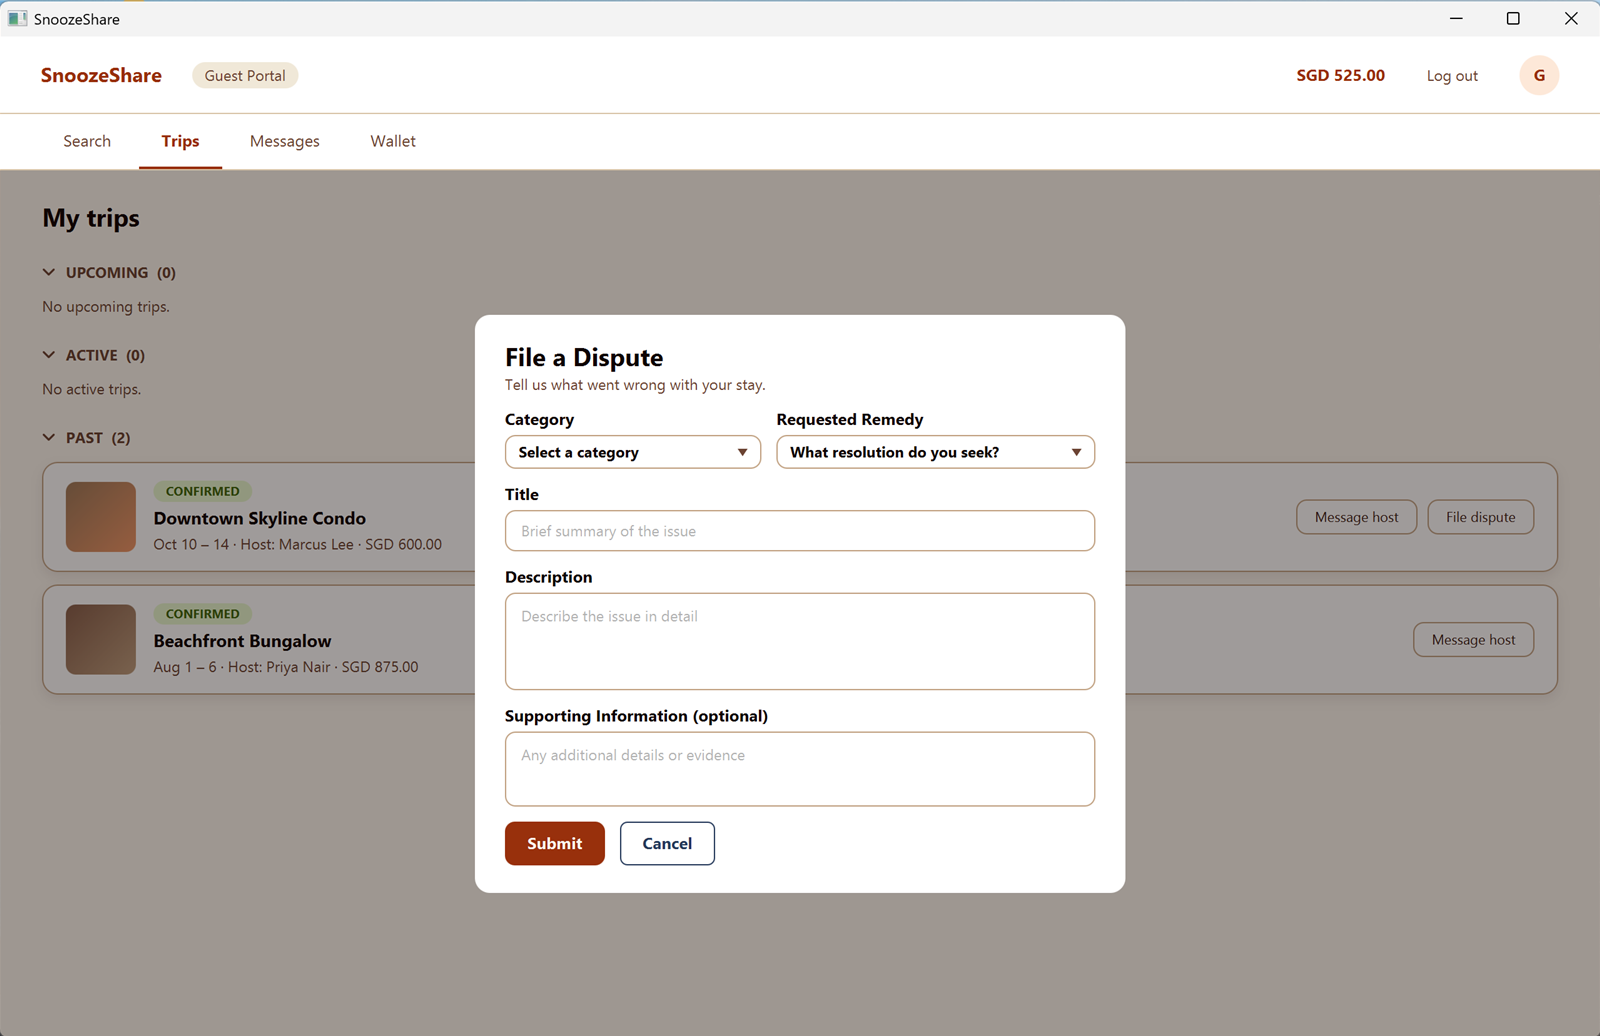
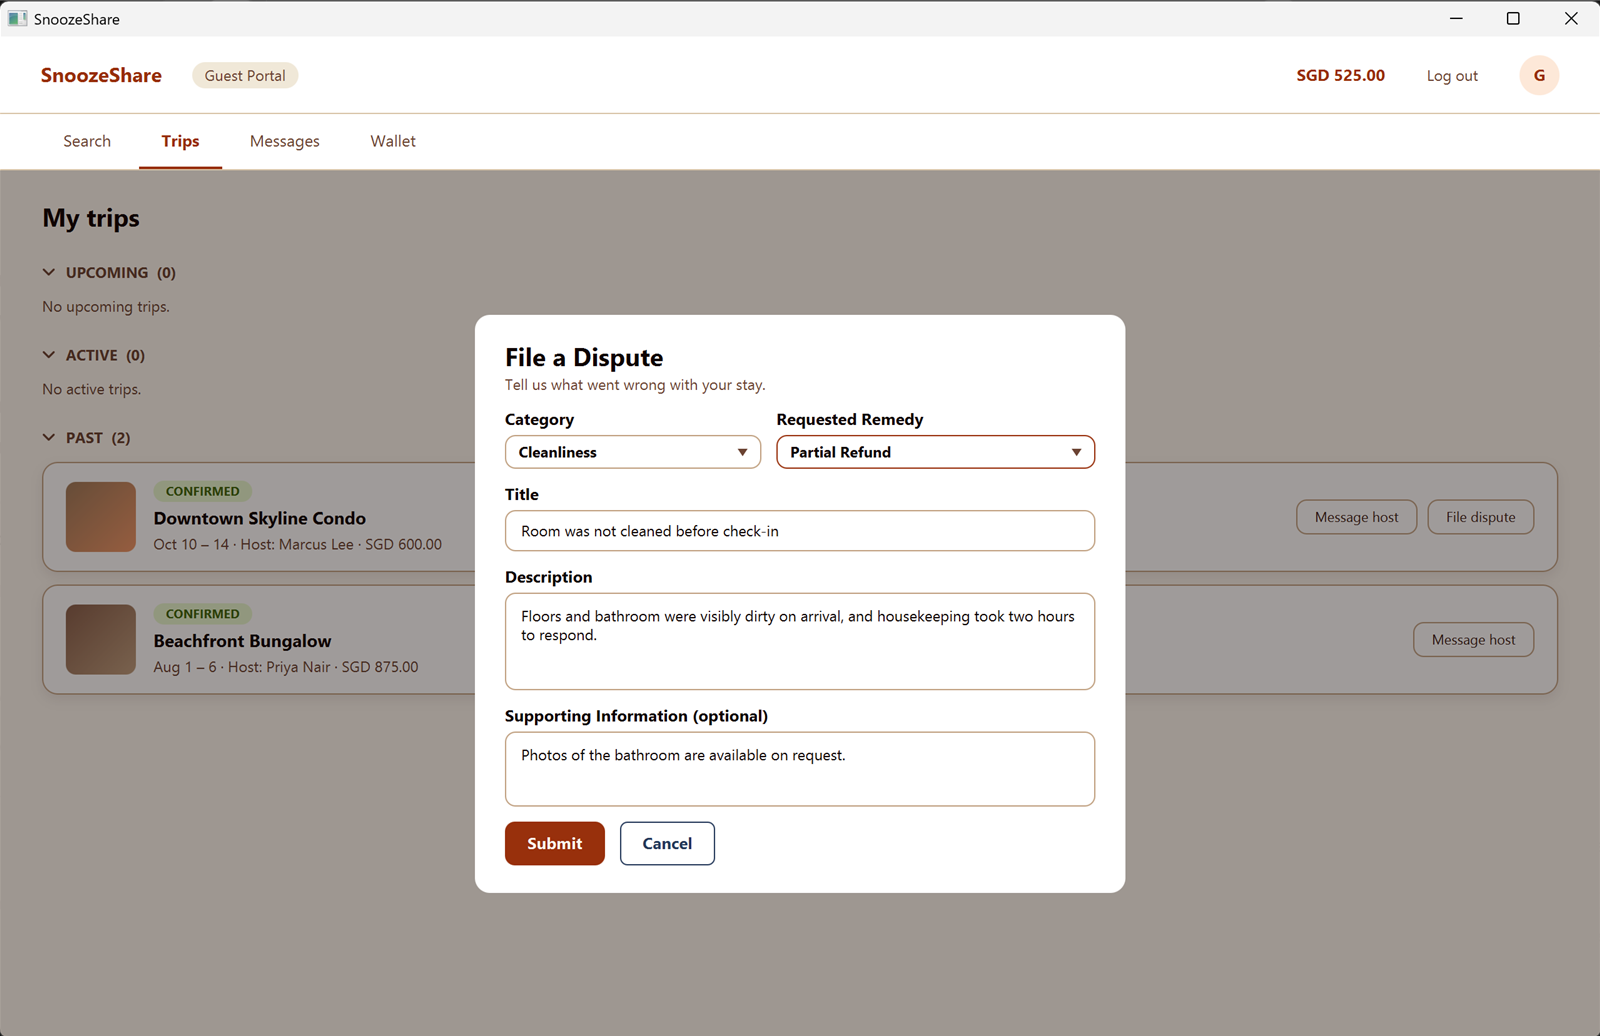
docs: retake the file-a-dispute screenshot filled in; describe the compact modal in both guides

diff --git a/docs/project-state/done-ledger.md b/docs/project-state/done-ledger.md
@@ -5,7 +5,7 @@ why, with a commit, plan or artifact as the reference. Not a copy of `git log`.
 
 | Date | What changed | Workstream | Ref |
 |---|---|---|---|
-| 2026-10-19 | MP3-0 UX fixes (branch `mp2-ux-date-fixes`), from operator feedback: **dates** no date picker accepts a past date any more: `StayDatePolicy.requireValidSearchRange` rejects a past check-in or check-out (the search filter, B5 follow-up), new `requireNotInPast` backs `AvailabilityService.createHostBlock` (host calendar, B4 follow-up; `AvailabilityServiceImpl` takes a `Clock`), and `GuestVisuals.blockPastDates` now also reports a past date that is *typed* into a picker with a message and leaves it in the field, so the service rejects the search, booking or block instead of running it with the date silently dropped (search, listing booking, host calendar). The Audit Log pickers are deliberately excluded, since they filter history. **Refund modal** now reads "100% (pending booking, or more than 48h before check-in)" and the policy note says a pending booking is refunded in full at any time. **File-a-dispute modal** no longer stretches to the window height: it sizes to its content, puts Category and Requested Remedy side by side, and lists the category "Other" last. `ListingServiceTest.searchWithDatesShowsAvailableBeforeUnavailable` used fixed October 2026 dates that are now past; it uses relative dates. User Guide and two screenshots (`guest4`, `guest-cancel-dialog`) updated. Verified in the running app (typed past date cleared, dialog layout, wording); the Host calendar typed-date path shares the helper and is covered by unit tests only | MP3-0 | commits on `mp2-ux-date-fixes` |
+| 2026-10-19 | MP3-0 UX fixes (branch `mp2-ux-date-fixes`), from operator feedback: **dates** no date picker accepts a past date any more: `StayDatePolicy.requireValidSearchRange` rejects a past check-in or check-out (the search filter, B5 follow-up), new `requireNotInPast` backs `AvailabilityService.createHostBlock` (host calendar, B4 follow-up; `AvailabilityServiceImpl` takes a `Clock`), and `GuestVisuals.blockPastDates` now also reports a past date that is *typed* into a picker with a message and leaves it in the field, so the service rejects the search, booking or block instead of running it with the date silently dropped (search, listing booking, host calendar). The Audit Log pickers are deliberately excluded, since they filter history. **Refund modal** now reads "100% (pending booking, or more than 48h before check-in)" and the policy note says a pending booking is refunded in full at any time. **File-a-dispute modal** no longer stretches to the window height: it sizes to its content, puts Category and Requested Remedy side by side, and lists the category "Other" last. `ListingServiceTest.searchWithDatesShowsAvailableBeforeUnavailable` used fixed October 2026 dates that are now past; it uses relative dates. User Guide, Developer Guide and two screenshots (`guest4` retaken filled in, `guest-cancel-dialog`) updated. Verified in the running app (typed past date cleared, dialog layout, wording); the Host calendar typed-date path shares the helper and is covered by unit tests only | MP3-0 | commits on `mp2-ux-date-fixes` |
 | 2026-10-19 | MP3-0 docs and process fixes (branch `mp2-docs-and-process-fixes`): **D6** Javadoc on the service interfaces, `AppContext` and 25 page controllers; **P2** `superpowers:brainstorming` and `superpowers:writing-plans` committed under `.claude/skills/`, `reviewed-plan` reference removed from `maintaining-project-state`; **P3** AGENTS.md § 6 "Keep commits small and contained"; **P4** sessions S1–S14 pruned from § How to Resume; **G1** the User Guide's eight screenshot placeholders replaced with real captures of the running app (`docs/images/`: db folder, three portal overviews, top-up, listing detail, approve and suspend dialogs; taken against a copy of the mock DB, mock DB untouched) and the legend placeholder removed; **G2** `docs/_config.yml` now sets kramdown/GFM, `jemoji` and an exclude list, plus `docs/Gemfile` for a local preview; site renamed to MP3 (not built locally, no Ruby); **G3** User Guide now states pending requests are always fully refunded and that platform-fee rows sit on the System wallet; **G4** Developer Guide § 8 Acknowledgements; **G5** Developer Guide corrected on default database (mock DB opened directly when present), the search budget filter (present) and Trips (three collapsible groups, not tabs); repository links moved to the MP3 organisation; AGENTS.md § 5 gains a compare-guide-to-app step. Build green. **G6** deliberately not done (C52) | MP3-0 | commits on `mp2-docs-and-process-fixes` |
 | 2026-10-19 | MP3-0 small fixes (branch `mp2-smaller-bug-fixes`): **B2** `ListingServiceImpl.create` honours the draft's status (was hard-coded ACTIVE; test updated); **B6** `AvailabilityServiceImpl.blocksFor` also returns a BOOKING range for any PENDING/CONFIRMED/COMPLETED/FORCE_COMPLETED booking lacking a block row, so the host calendar shows it as booked; **B7** approval dialog now shows net earning (matches Requests), User Guide corrected to say only declining has a message field (C31 kept); **D4** removed dead `forceTransition`, `applyTicketRemedy`, `manualOverride` stubs. Full build 573 tests, 0 failures | MP3-0 | this branch |
 | 2026-10-19 | Fixed the 4 "baseline" host-UI test failures: they matched multi-line CSS with `\r\n` but the Windows working copy is CRLF (git autocrlf). Added `testsupport/SourceText.read` (normalises line endings) and used it in `HostCalendarControllerTest`, `HostListingsControllerTest`, `HostPageLayoutTest`; no production or CSS change. Full build: 570 tests, 0 failures, Checkstyle clean. Supersedes the "4 failures" in the verification row below | MP3-0 | `SourceText.java` (this commit) |

diff --git a/docs/DeveloperGuide.md b/docs/DeveloperGuide.md
@@ -592,7 +592,7 @@ access repositories directly.
 | GuestSearchController + guest-search.fxml | Searches listings by city, guest count, check-in/check-out dates and an optional maximum nightly budget. Results show nightly price, capacity and availability, and unavailable matches are visibly marked. |
 | ListingDetailController + listing-detail.fxml | Shows the listing's property type, address, description, capacity, beds, baths, check-in/out times, amenities, host name and dynamic nightly/total price; submits a booking request when dates are selected. |
 | TripDashboardController + trip-dashboard.fxml | Loads every booking for the guest and groups them into three collapsible sections, Upcoming, Active and Past (Upcoming holds pending requests and confirmed stays not yet started, Active holds stays under way, and Past holds ended and completed stays plus cancelled and rejected requests); reacts to booking/ticket events; supports eligible cancellation, dispute filing and review actions. |
-| TicketFilingController + ticket-filing.fxml | Files a ticket for the selected booking with an active category, title, description, requested remedy and optional supporting text. |
+| TicketFilingController + ticket-filing.fxml | Files a ticket for the selected booking with an active category (the category "Other" is always listed last), a requested remedy, a title, a description and optional supporting text. The dialog sizes to its content, with Category and Requested Remedy side by side. |
 | TicketHistoryController + ticket-history.fxml | Displays the Guest's own tickets, status, category, filing time, description, requested remedy, supporting information and resolution. |
 | GuestMessagesController + guest-messages.fxml | Merges ticket and private booking conversations, loads persisted threads, marks them read, posts replies while writable and opens ticket filing for a booking conversation. |
 | ReviewDialogController + review-dialog.fxml | Submits one 1–5 star rating and optional comment for a completed stay. |

diff --git a/docs/UserGuide.md b/docs/UserGuide.md
@@ -334,8 +334,8 @@ If something went wrong with a stay, tell us what happened:
 
 The money for that booking stays in escrow until a Support Agent resolves the ticket.
 
-!["File a Dispute" form](images/guest4.png)
-*Figure: "File a Dispute" form.*
+!["File a Dispute" form filled in with a category, remedy, title and description](images/guest4.png)
+*Figure: "File a Dispute" form, filled in. Category and Requested Remedy sit side by side.*
 
 ### Messages
 
